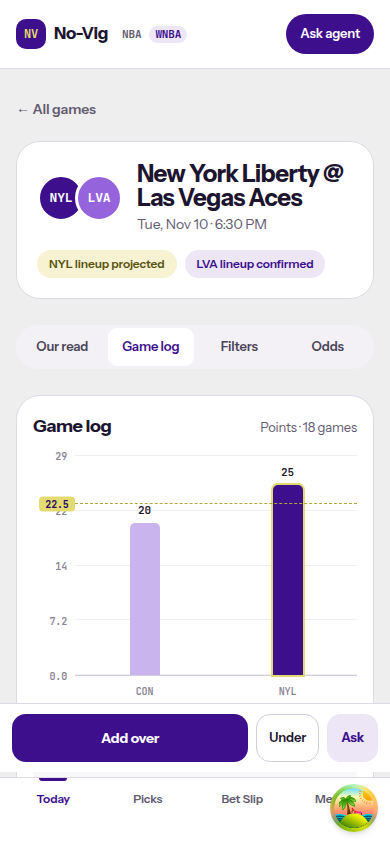
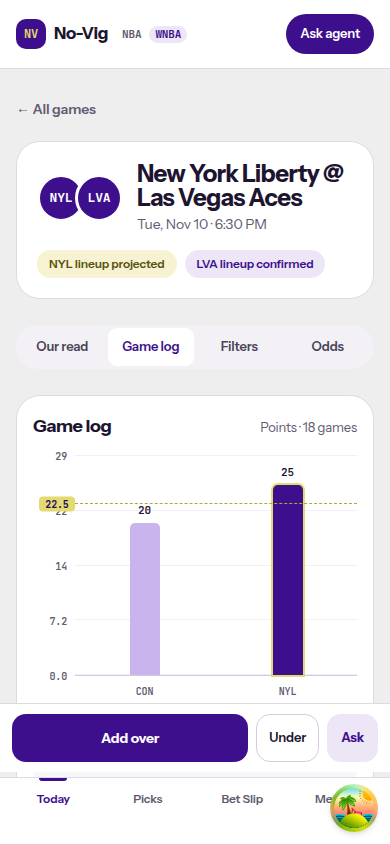
fix: raise game-page contrast and round percents half away from zero
Home abbreviations use the brand fill. Chart labels use the muted token. The venue control stays disabled at full opacity. Consensus, history tiles, and vig go through formatPercent.

Changed region(s): [[0.1846, 0.1848, 0.3077, 0.2773], [0.3385, 0.8009, 0.4, 0.8318], [0.7077, 0.8009, 0.7385, 0.8318]]

diff --git a/frontend/components/EventDetail.tsx b/frontend/components/EventDetail.tsx
@@ -72,6 +72,7 @@ import {
   type PlayerHistoryRequest,
   type PlayerHistoryResponse,
 } from "@/lib/schemas";
+import { formatPercent } from "@/lib/player-dd";
 import { teamAbbr } from "@/lib/team-abbr";
 import { getLocalDateString, getTodayString, cn } from "@/lib/utils";
 
@@ -504,7 +505,9 @@ export function EventDetail({ league }: { league: League }) {
                 model={chart}
                 note={
                   chartQuery.data
-                    ? `${getMarketDisplayName(selectedMarket)} · ${chartQuery.data.n_games} games`
+                    ? `${getMarketDisplayName(selectedMarket)} · ${chartQuery.data.n_games} ${
+                        chartQuery.data.n_games === 1 ? "game" : "games"
+                      }`
                     : getMarketDisplayName(selectedMarket)
                 }
                 selectedKey={selectedBar}
@@ -516,8 +519,8 @@ export function EventDetail({ league }: { league: League }) {
               />
               {chartQuery.data && chartQuery.data.n_games > 0 ? (
                 <div className="mt-4 grid grid-cols-2 gap-2 md:grid-cols-4">
-                  <StatTile label="Over" value={chartQuery.data.p_over == null ? "—" : `${(chartQuery.data.p_over * 100).toFixed(1)}%`} />
-                  <StatTile label="Under" value={chartQuery.data.p_under == null ? "—" : `${(chartQuery.data.p_under * 100).toFixed(1)}%`} />
+                  <StatTile label="Over" value={formatPercent(chartQuery.data.p_over)} />
+                  <StatTile label="Under" value={formatPercent(chartQuery.data.p_under)} />
                   <StatTile label="Average" value={chartQuery.data.mean == null ? "—" : chartQuery.data.mean.toFixed(1)} />
                   <StatTile label="Games" value={String(chartQuery.data.n_games)} />
                 </div>
@@ -557,14 +560,9 @@ export function EventDetail({ league }: { league: League }) {
               <h3 className="text-lg font-bold text-ink">Sportsbook prices</h3>
               <p className="text-[13px] text-muted">
                 {result?.consensus
-                  ? `No-vig consensus ${binary ? "yes" : "over"} ${
-                      (binary
-                        ? result.consensus.p_yes_fair
-                        : result.consensus.p_over_fair
-                      ) == null
-                        ? "—"
-                        : `${(((binary ? result.consensus.p_yes_fair : result.consensus.p_over_fair) as number) * 100).toFixed(1)}%`
-                    }`
+                  ? `No-vig consensus ${binary ? "yes" : "over"} ${formatPercent(
+                      binary ? result.consensus.p_yes_fair : result.consensus.p_over_fair,
+                    )}`
                   : "No-vig consensus is not on this response."}
               </p>
             </div>

diff --git a/frontend/components/event/contrast.test.ts b/frontend/components/event/contrast.test.ts
@@ -36,7 +36,7 @@ function blend(foreground: string, background: string, alpha: number): string {
 const WHITE = "#FFFFFF";
 const pairs: Array<{ where: string; foreground: string; background: string; minimum: number }> = [
   { where: "EventHeader.tsx:65 away abbr, white on brand", foreground: WHITE, background: "#3E0F8D", minimum: 4.5 },
-  { where: "EventHeader.tsx:68 home abbr, white on brand-soft", foreground: WHITE, background: "#9564DD", minimum: 4.5 },
+  { where: "EventHeader.tsx:68 home abbr, white on brand", foreground: WHITE, background: "#3E0F8D", minimum: 4.5 },
   { where: "EventHeader.tsx:73 title, ink on white", foreground: "#1D1530", background: WHITE, minimum: 4.5 },
   { where: "EventHeader.tsx:76 clock, muted on white", foreground: "#625B70", background: WHITE, minimum: 4.5 },
   { where: "EventHeader.tsx:8 projected chip", foreground: "#5A5310", background: "#F6F2D2", minimum: 4.5 },
@@ -45,8 +45,8 @@ const pairs: Array<{ where: string; foreground: string; background: string; mini
   { where: "OurRead.tsx:56 under label, 14px on white", foreground: "#5B3A99", background: WHITE, minimum: 4.5 },
   { where: "OurRead.tsx:157 ask, brand on tint", foreground: "#3E0F8D", background: "#ECE6F7", minimum: 4.5 },
   { where: "OurRead.tsx:10 pass tier", foreground: "#4A4458", background: "#E2E2E2", minimum: 4.5 },
-  { where: "GameLogChart.tsx:44 axis labels", foreground: "#8A8496", background: WHITE, minimum: 4.5 },
-  { where: "GameLogChart.tsx:108 opponent labels", foreground: "#8A8496", background: WHITE, minimum: 4.5 },
+  { where: "GameLogChart.tsx:44 axis labels", foreground: "#625B70", background: WHITE, minimum: 4.5 },
+  { where: "GameLogChart.tsx:108 opponent labels", foreground: "#625B70", background: WHITE, minimum: 4.5 },
   { where: "GameLogChart.tsx:95 line tag", foreground: "#2A0A60", background: "#E4DA72", minimum: 4.5 },
   { where: "EventTabs.tsx:27 selected tab", foreground: "#3E0F8D", background: WHITE, minimum: 4.5 },
   { where: "EventTabs.tsx:27 idle tab", foreground: "#4A4458", background: "#F3F1F6", minimum: 4.5 },
@@ -67,8 +67,8 @@ describe("game page text contrast", () => {
 
   it("keeps the faded venue control at 3:1 after opacity", () => {
     const card = WHITE;
-    const track = blend("#F3F1F6", card, 0.6);
-    const label = blend("#625B70", track, 0.6);
+    const track = blend("#F3F1F6", card, 1);
+    const label = blend("#625B70", track, 1);
     const ratio = contrast(label, track);
     expect(ratio).toBeGreaterThanOrEqual(3);
   });

diff --git a/frontend/components/event/GameFilters.tsx b/frontend/components/event/GameFilters.tsx
@@ -89,7 +89,7 @@ export function GameFilters({
       <div className="flex items-center justify-between gap-3">
         <h3 className="text-lg font-bold text-ink">Filter games</h3>
         <p className="text-[13px] text-muted">
-          {gameCount == null ? "Line not posted" : `${gameCount} games`}
+          {gameCount == null ? "Line not posted" : `${gameCount} ${gameCount === 1 ? "game" : "games"}`}
         </p>
       </div>
       <div className="grid gap-4 md:grid-cols-2">
@@ -136,12 +136,13 @@ export function GameFilters({
         </div>
         <div className="flex min-w-0 flex-col gap-2">
           <div className="text-xs font-bold uppercase tracking-[0.08em] text-muted">Venue</div>
-          <div className="flex gap-0.5 rounded-xl bg-[#F3F1F6] p-[3px] opacity-60">
+          <div className="flex gap-0.5 rounded-xl bg-[#F3F1F6] p-[3px]" aria-disabled="true">
             {["All", "Home", "Away"].map((label) => (
               <button
                 key={label}
                 type="button"
                 disabled
+                aria-disabled="true"
                 aria-pressed={label === "All"}
                 className={cn(
                   "min-h-9 flex-1 rounded-[9px] text-[13px] font-semibold",

diff --git a/frontend/components/event/GameLogChart.tsx b/frontend/components/event/GameLogChart.tsx
@@ -41,7 +41,7 @@ export function GameLogChart({
               {model.ticks.map((tick) => (
                 <div
                   key={tick.pos}
-                  className="absolute right-0 translate-y-1/2 font-mono text-[10px] font-semibold text-[#8A8496]"
+                  className="absolute right-0 translate-y-1/2 font-mono text-[10px] font-semibold text-muted"
                   style={{ bottom: tick.pos }}
                 >
                   {tick.label}
@@ -105,7 +105,7 @@ export function GameLogChart({
               {model.bars.map((bar) => (
                 <div
                   key={`${bar.key}-opp`}
-                  className="min-w-0 flex-1 truncate text-center font-mono text-[10px] font-semibold text-[#8A8496]"
+                  className="min-w-0 flex-1 truncate text-center font-mono text-[10px] font-semibold text-muted"
                 >
                   {bar.opponent}
                 </div>

diff --git a/frontend/components/event/EventHeader.tsx b/frontend/components/event/EventHeader.tsx
@@ -65,7 +65,7 @@ export function EventHeader({
                 <div className="flex h-12 w-12 items-center justify-center rounded-full border-[3px] border-white bg-brand font-mono text-[13px] font-bold text-white">
                   {awayAbbr || "—"}
                 </div>
-                <div className="-ml-2.5 flex h-12 w-12 items-center justify-center rounded-full border-[3px] border-white bg-brand-soft font-mono text-[13px] font-bold text-white">
+                <div className="-ml-2.5 flex h-12 w-12 items-center justify-center rounded-full border-[3px] border-white bg-brand font-mono text-[13px] font-bold text-white">
                   {homeAbbr || "—"}
                 </div>
               </div>

diff --git a/frontend/components/EventDetail.fixtures.test.tsx b/frontend/components/EventDetail.fixtures.test.tsx
@@ -322,7 +322,7 @@ describe("EventDetail fixtures", () => {
       expect.objectContaining({ n: 20, threshold: 18.5, player: "Bam Adebayo", metric: "points" }),
     );
     await user.selectOptions(within(filters).getByRole("combobox", { name: "Opponent" }), "PHI");
-    expect(await within(chart).findByText("Points · 1 games")).toBeInTheDocument();
+    expect(await within(chart).findByText("Points · 1 game")).toBeInTheDocument();
     expect(apiMocks.getPlayerHistory).toHaveBeenCalledWith(
       expect.objectContaining({ opponent: "PHI", threshold: 18.5 }),
     );

diff --git a/frontend/lib/utils.ts b/frontend/lib/utils.ts
@@ -10,6 +10,7 @@
 import { clsx, type ClassValue } from "clsx";
 import { twMerge } from "tailwind-merge";
 import { format, parseISO } from "date-fns";
+import { formatPercent } from "@/lib/player-dd";
 import { zhTW } from "date-fns/locale";
 
 /**
@@ -202,7 +203,7 @@ export function formatAmericanOdds(odds: number): string {
  * // 結果: "4.8%"
  */
 export function formatVig(vig: number): string {
-  return `${(vig * 100).toFixed(1)}%`;
+  return formatPercent(vig);
 }
 
 

diff --git a/docs/task-summaries/SPO-110b-game-page.md b/docs/task-summaries/SPO-110b-game-page.md
@@ -45,7 +45,7 @@ Suggest returns names only. A no-vig request per name would call the odds provid
 
 ## Tests / Verification
 
-- `npx vitest run` — 35 files, 231 tests, passed (`TZ=America/Chicago`), after merging `720cddc` and `1dde92c` from `feature/SPO-110a-design-system-shell-today`.
+- `npx vitest run` — 38 files, 249 tests, passed (`TZ=America/Chicago`), including the checks added in `c6ec64a`.
 - `npx tsc --noEmit` — passed.
 - `npm run lint` — passed, 0 warnings.
 
